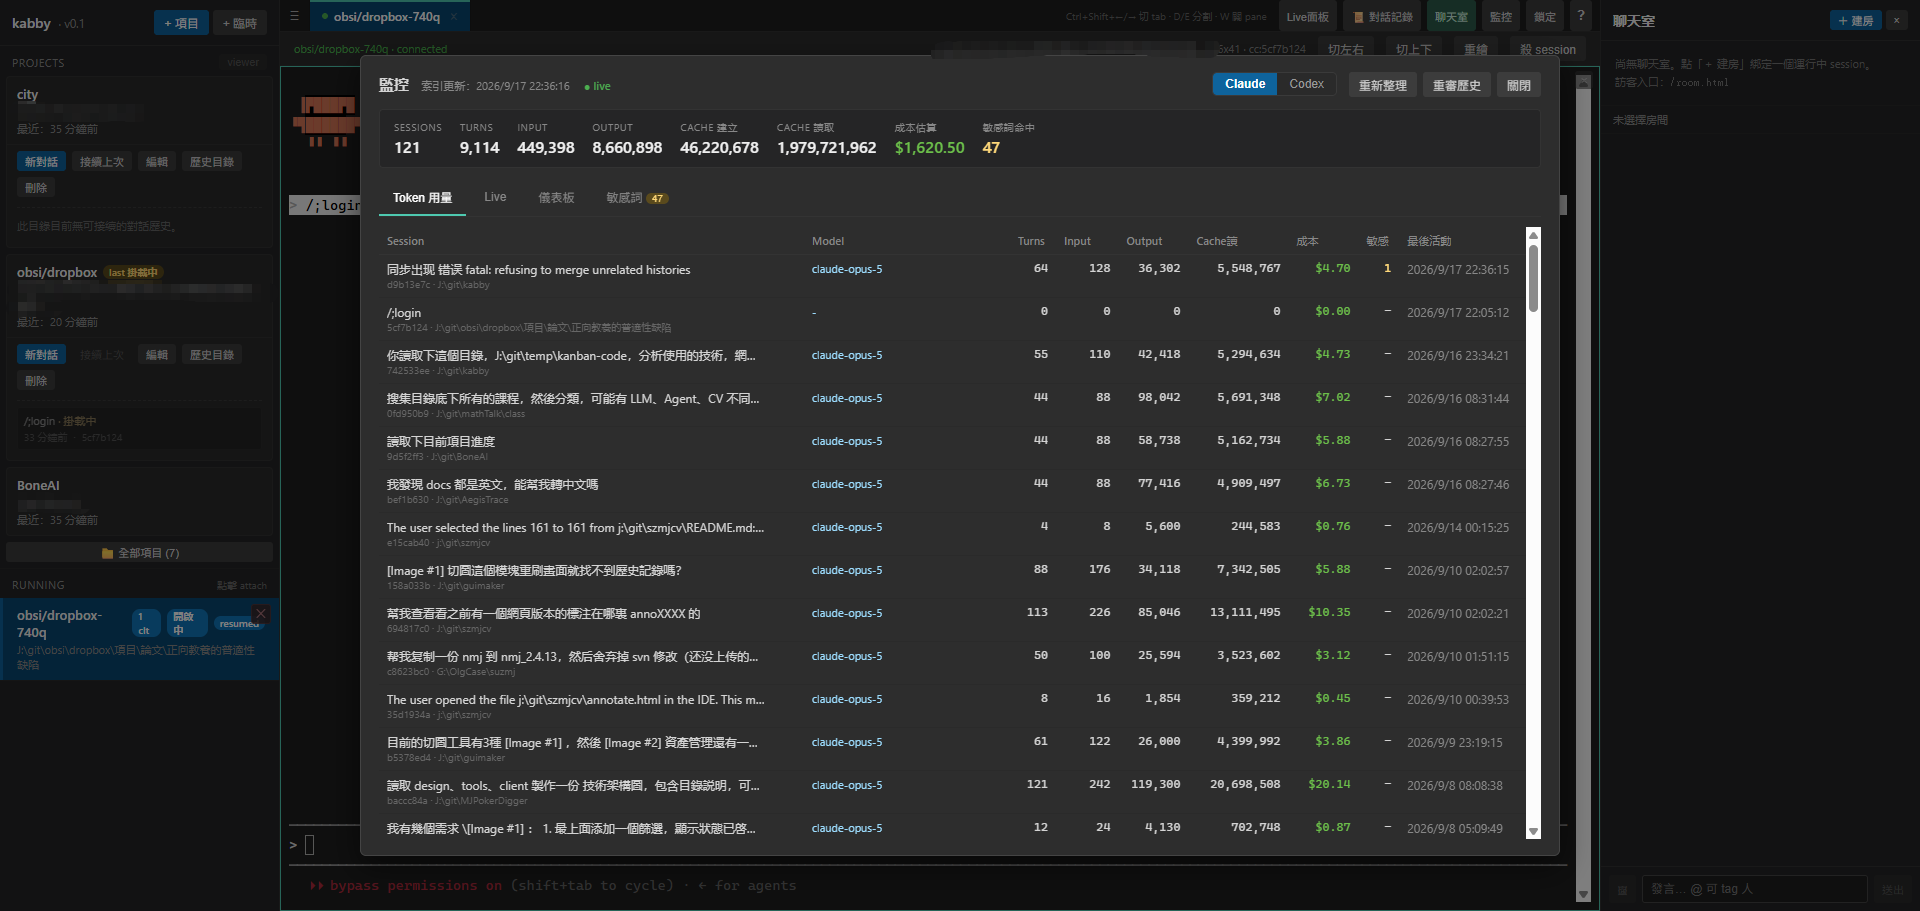
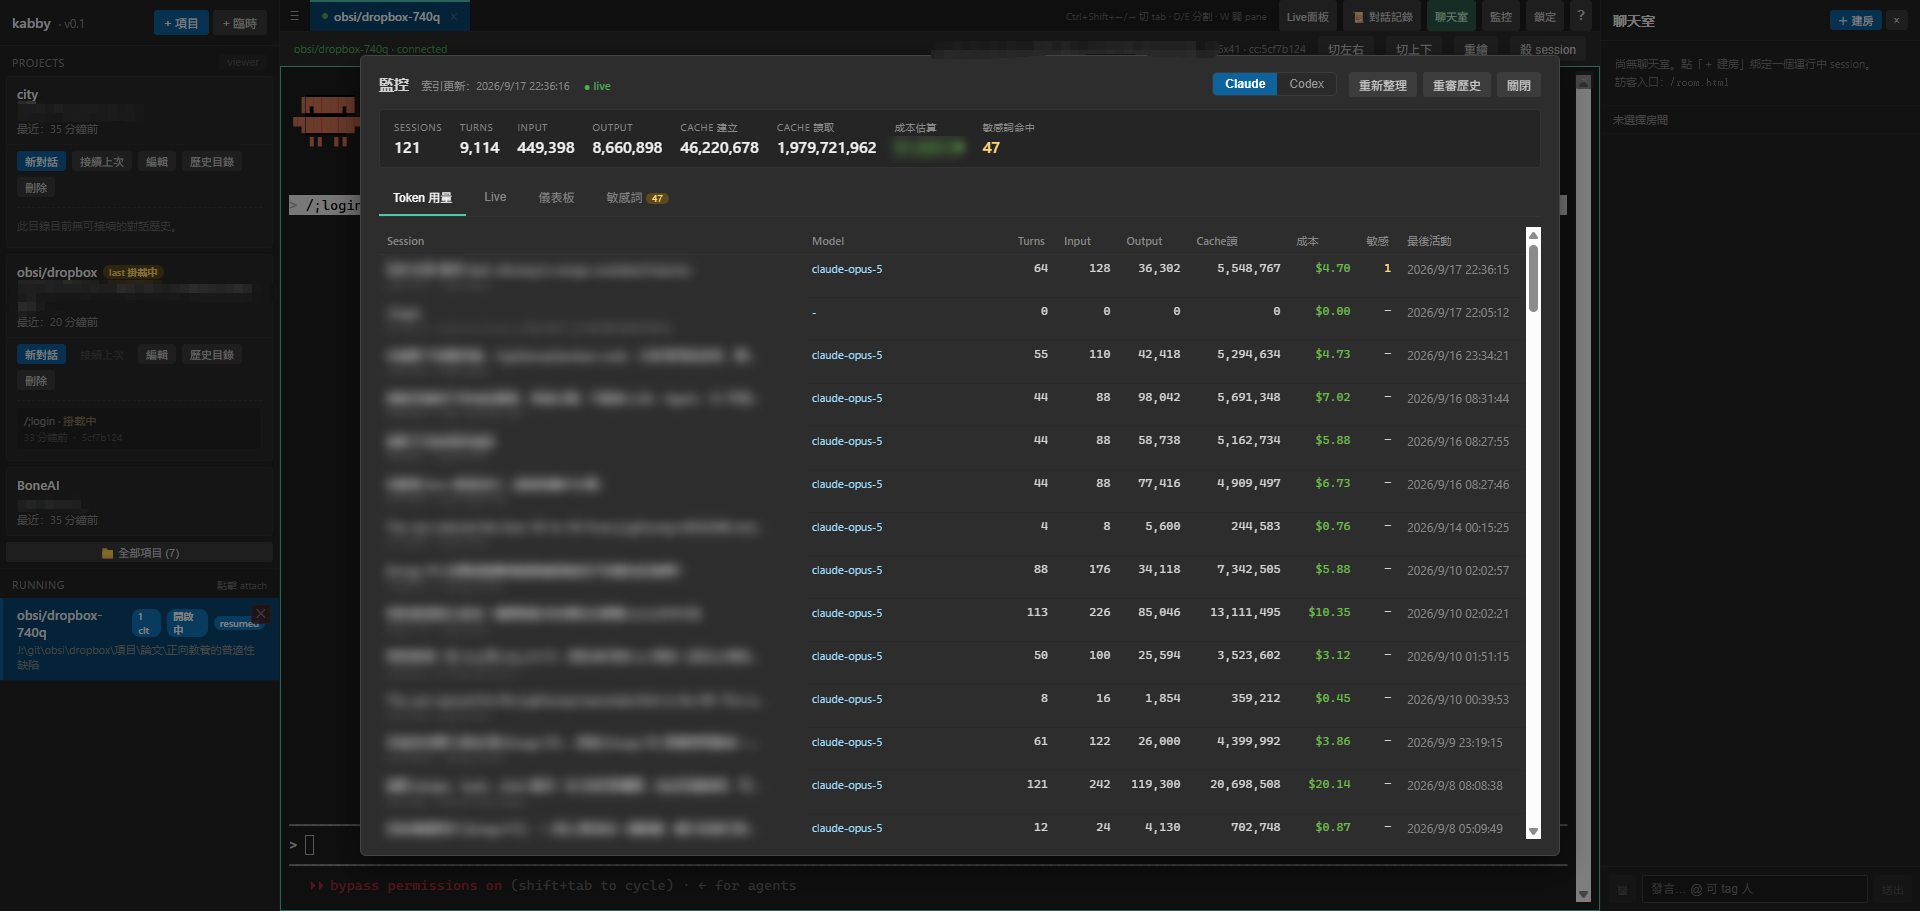
docs(readme): 監控截圖補打碼 + 英文/簡體版與語言切換
- monitor.png：Session 欄（標題與路徑）與成本估算數字做馬賽克
- 新增 README.en.md、README.zh-CN.md，三份互相連結
- 三份 README 在 What is Kabby 之上加語言切換列

Changed region(s): [[0.1875, 0.3381, 0.4062, 0.9221], [0.1875, 0.2766, 0.375, 0.3074], [0.4688, 0.1537, 0.5, 0.1844]]

diff --git a/README.en.md b/README.en.md
@@ -1,0 +1,182 @@
+<div align="center">
+
+# kabby
+
+**One Claude Code process, many windows attached — a PTY multiplexer for cc.**
+
+Your desktop app, a browser tab, your phone and an embedded iframe all see the same terminal. Close the window and cc keeps running.
+
+</div>
+
+---
+
+![kabby Web UI — tabs, project/running list on the left, live panel and monitor entry at top right](docs/images/screenshot.png)
+
+<div align="center">
+
+**English** · [繁體中文](./README.md) · [简体中文](./README.zh-CN.md)
+
+</div>
+
+## What is Kabby
+
+When you start Claude Code in a terminal, the cc process is tied to that window: close the window or drop the SSH connection and the session is gone. Want to pick it up on another device? Your only option is to start a fresh cc.
+
+kabby separates the **cc process** from the **client connection**. cc runs in a PTY inside the daemon, and any client — the desktop app, a browser tab, a wepages iframe, your phone's browser — attaches over WebSocket and sees the same screen and the same scrollback. It behaves like `tmux attach`, except the entry point is a URL instead of a terminal.
+
+Three features grow out of that: turn a session into a **chat room** so others can watch or work alongside you, reach the cc on your home machine **remotely** through a tunnel, and **analyze** your cc history for token usage and cost.
+
+kabby itself is Node.js with four dependencies (express / ws / node-pty / cors). No database — sessions live in memory, settings live in `~/.kabby/`.
+
+## Installation
+
+Requires **Node.js ≥ 18** and the [Claude Code](https://docs.anthropic.com/en/docs/claude-code) CLI (Codex works too).
+
+```bash
+git clone https://github.com/jokerjkeeper/kabby.git
+cd kabby
+npm install
+npm start
+# → kabby daemon listening on http://localhost:3700
+```
+
+Open `http://localhost:3700` for the full UI. On Windows `node-pty` uses the prebuilt ConPTY backend, so a plain `npm install` is enough — no build toolchain needed.
+
+Auto-restart while developing:
+
+```bash
+npm run dev
+```
+
+**Desktop app (optional)** — an Electron shell; just a window pointed at the daemon:
+
+```bash
+cd desktop
+npm install
+npm start           # dev
+npm run dist        # build a Windows portable exe
+```
+
+### Configuration
+
+Environment variables (put them in `.env`; see `.env.example`):
+
+| Variable | Default | Purpose |
+|---|---|---|
+| `PORT` | `3700` | Shared HTTP + WS port |
+| `HOST` | `127.0.0.1` | Bind address; set `0.0.0.0` to allow LAN access (always pair it with `AUTH_TOKEN`) |
+| `AUTH_TOKEN` | (unset) | Once set, WS connections must pass `?token=<value>` |
+| `KABBY_VIEWER_PATH` | (unset) | Absolute path to the cc history viewer executable; enables the "viewer" button in the UI |
+
+User data lives in `~/.kabby/`: `profiles.json` (project list), `sensitive-words.json` (blocklist), and the usage index.
+
+## Features
+
+### Multi-client attach (the core)
+
+- **One PTY, N clients**: a new client receives a scrollback replay first, then the live stream — no need to restart cc
+- **Projects (profiles)**: save a working directory as a card, then "New chat" or "Resume" in one click — the latter reattaches cc's own previous session
+- **Tabs and split panes**: `Ctrl+Shift+←/→` to switch tabs, `Ctrl+Shift+D/E` to split horizontally/vertically; each pane is its own session
+- **Providers**: launch either Claude Code or Codex, chosen when the session is created
+- **Input blocklist**: outgoing input is matched against a word list server-side; a hit is dropped before it reaches the PTY
+
+### Chat
+
+The chat button at the top right opens a side panel: create a room, bind it to a running session, set an entry key.
+
+![Create room dialog: bind session, room name, entry key, and the "allow guest input" toggle](docs/images/room-create.png)
+
+Guests open `http://<host>:3700/room.html` (or a copied link carrying `?key=`), enter the key and a nickname, and they are in:
+
+- **Watch the terminal**: the bound session's live screen including scrollback replay, following the host's terminal size
+- **Text chat**: last 200 messages; supports **images** (Ctrl+V a screenshot or pick a file — compressed client-side, sent over WS, kept in memory, 20 most recent per room) and **@mentions** (autocomplete over room members, highlights the person tagged)
+- **Permissions**: each room has an input toggle that is **read-only by default**; the host can flip it live, and the read-only check is enforced server-side, not hidden in the frontend
+- **Isolation**: a guest key only grants the WS of that room's bound session plus chat — no other API is reachable
+- Rooms live in memory; restarting the daemon or ending the bound session closes them
+
+> ⚠ Enabling guest input lets visitors run arbitrary commands on this machine with your permissions. Only hand the key to people you trust.
+
+### Remote
+
+Bound to `127.0.0.1`, the daemon is local-only. Two ways to reach your cc from outside:
+
+- **LAN**: `HOST=0.0.0.0` plus `AUTH_TOKEN`, then connect to `http://<lan-ip>:3700` from a phone or laptop on the same network
+- **Cloudflare Tunnel (recommended)**: keep the daemon on `127.0.0.1` and let the tunnel expose it as `https://kabby.your-domain` over 443, with no inbound firewall rule. Setup: [`docs/cloudflare-tunnel.html`](./docs/cloudflare-tunnel.html)
+
+Pair it with [`docs/deploy-systemd.md`](./docs/deploy-systemd.md) to run the daemon as a systemd service — starts on boot, restarts on crash, survives SSH disconnects. That gives you an always-on cc host you can check from a phone browser whenever you want.
+
+`embed.html` is a stripped-down terminal page meant to be iframed into your own task/ticket system (see [`docs/wepages-phase3-integration.md`](./docs/wepages-phase3-integration.md)).
+
+### Session Analyze
+
+The monitor button opens a read-only analytics panel; a background watcher keeps indexing Claude Code / Codex history jsonl files.
+
+![Monitor panel: totals row plus the token usage tab listing model, turns, tokens, cost and last activity per session](docs/images/monitor.png)
+
+- Totals: sessions, turns, input/output tokens, cache writes and reads, **estimated cost**, blocklist hits
+- **Token usage**: per session — model, turns, tokens, cost, last activity — expandable to per-turn detail, so you can spot the turn where context blew up
+- **Live**: per-turn usage of the session running right now
+- **Dashboard**: aggregate view
+- **Blocklist**: hit list; the word list lives in `~/.kabby/sensitive-words.json`
+- Switch **Claude / Codex** at the top right; refresh re-reads the index, while rescan drops it and scans from scratch (recomputing tokens/cost and applying the current word list to old conversations)
+
+Indexing and pricing are computed locally — your conversations are never sent anywhere.
+
+## API
+
+```bash
+# create a session
+curl -X POST http://localhost:3700/api/sessions \
+  -H "Content-Type: application/json" \
+  -d '{"name":"unity","cwd":"D:/Projects/my-app"}'
+
+# list sessions
+curl http://localhost:3700/api/sessions
+
+# attach with any WS client, e.g. wscat
+wscat -c ws://localhost:3700/ws/unity
+```
+
+Full HTTP + WS reference: [`docs/api.md`](./docs/api.md) · Step-by-step usage and troubleshooting: [`docs/usage.md`](./docs/usage.md)
+
+## Testing
+
+```bash
+node test/smoke.js
+```
+
+Runs `cmd.exe` in place of cc (so it does not depend on claude being installed) and verifies: creating/deleting sessions over the HTTP API, fan-out between two WS clients on one session, scrollback replay for a third client joining later, and `clientCount` tracking attachments correctly.
+
+## Architecture
+
+```
+client (desktop app / browser / iframe / room.html)
+        │  WebSocket  ws://host:3700/ws/<session>
+        ▼
+   daemon.js ── HTTP API + WS upgrade + fan-out
+        │
+   Session ── node-pty (one cc process) + ring buffer (scrollback)
+```
+
+```
+src/
+  daemon.js        — entry: HTTP server + WS upgrade + API routes
+  session.js       — Session class: wraps PTY + scrollback + clients
+  registry.js      — singleton Map<id, Session>, name dedupe, ccSessionId lookup
+  ring-buffer.js   — 100KB chunk-based ring buffer
+  room-registry.js — chat rooms: rooms, entry keys, members, messages
+  profile-store.js — ~/.kabby/profiles.json CRUD
+  usage-watcher.js — background scan of history jsonl into a usage index
+  cc-history.js    — cc conversation jsonl parser
+  sensitive.js     — blocklist matching
+public/            — web UI (SPA + room.html + embed.html)
+desktop/           — Electron desktop client
+docs/              — API, usage, deployment (tunnel / systemd)
+PLAN.md            — design decisions and phased plan
+```
+
+Design decisions and phase details: [`PLAN.md`](./PLAN.md).
+
+## License
+
+MIT

diff --git a/README.zh-CN.md b/README.zh-CN.md
@@ -1,0 +1,182 @@
+<div align="center">
+
+# kabby
+
+**一个 cc 进程，多个窗口同时 attach — 给 Claude Code 用的 PTY 多路复用器。**
+
+桌面、浏览器、手机、iframe 看到的是同一个终端，关掉窗口 cc 照样在跑。
+
+</div>
+
+---
+
+![kabby Web UI — 多标签页、左侧项目/Running 列表、右上 Live 面板与监控入口](docs/images/screenshot.png)
+
+<div align="center">
+
+[English](./README.en.md) · [繁體中文](./README.md) · **简体中文**
+
+</div>
+
+## What is Kabby
+
+一般在终端里开 Claude Code，cc 的生命周期是绑在那个终端窗口上的：窗口关了、SSH 断了，会话就没了；想换一台设备接手，只能重开一个新的 cc。
+
+kabby 把 **cc 进程**和 **client 连接**拆开。cc 跑在 daemon 里的 PTY 中，任何 client（桌面 App、浏览器标签页、wepages 的 iframe、手机浏览器）用 WebSocket attach 上来，看到的是同一个画面、同一份 scrollback，行为等同 `tmux attach`——只是 attach 的入口从终端变成了网址。
+
+在这之上长出三个延伸功能：把会话开成**聊天室**让别人实时围观或协作、通过 tunnel **远程**用手机连回家里那台机器的 cc，以及扫描 cc 历史做 token 用量与成本的**分析监控**。
+
+kabby 本身只有 Node.js 加四个依赖（express / ws / node-pty / cors），没有数据库，会话放在内存里，配置放在 `~/.kabby/`。
+
+## Installation
+
+需要 **Node.js ≥ 18**，以及已安装的 [Claude Code](https://docs.anthropic.com/en/docs/claude-code) CLI（Codex 也可以）。
+
+```bash
+git clone https://github.com/jokerjkeeper/kabby.git
+cd kabby
+npm install
+npm start
+# → kabby daemon listening on http://localhost:3700
+```
+
+浏览器打开 `http://localhost:3700` 就是完整 UI。`node-pty` 在 Windows 上走预编译的 ConPTY 后端，正常 `npm install` 即可，不需要 build 工具链。
+
+开发时自动重启：
+
+```bash
+npm run dev
+```
+
+**桌面 App（可选）** —— Electron 壳，就是一个指向 daemon 的窗口：
+
+```bash
+cd desktop
+npm install
+npm start           # 开发
+npm run dist        # 打包成 Windows portable exe
+```
+
+### Configuration
+
+环境变量（可写在 `.env`，模板见 `.env.example`）：
+
+| 变量 | 默认值 | 用途 |
+|---|---|---|
+| `PORT` | `3700` | HTTP + WS 共用端口 |
+| `HOST` | `127.0.0.1` | 监听地址；设为 `0.0.0.0` 开放局域网直连（务必搭配 `AUTH_TOKEN`） |
+| `AUTH_TOKEN` | （未设） | 设置之后 WS 连接必须带 `?token=<value>` |
+| `KABBY_VIEWER_PATH` | （未设） | cc history viewer 的 portable exe 绝对路径；设置后 UI 上的「viewer」按钮才会启用 |
+
+用户数据放在 `~/.kabby/`：`profiles.json`（项目列表）、`sensitive-words.json`（敏感词库）、用量索引。
+
+## Features
+
+### 多 client attach（核心）
+
+- **一个 PTY、N 个 client**：新 client 接上先收 scrollback replay，再接实时输出，不用重开 cc
+- **项目（profile）**：把常用工程存成一张卡片，一键「新对话」或「接续上次」——后者直接把 cc 的历史会话接回来
+- **多标签页 + 分割 pane**：`Ctrl+Shift+←/→` 切标签页、`Ctrl+Shift+D/E` 左右/上下分割，每个 pane 是一个独立会话
+- **Provider**：Claude Code 与 Codex 都能开，建会话时选
+- **敏感词拦截**：发送的输入在服务端比对词库，命中直接拦下，不进 PTY
+
+### Chat
+
+主页右上「聊天室」打开右侧面板：创建房间、绑定一个运行中的会话、设一组入房 key。
+
+![创建聊天室：绑定会话、房间名称、入房 key 与「允许访客在终端输入」开关](docs/images/room-create.png)
+
+别人打开 `http://<host>:3700/room.html`（或用「复制链接」带 `?key=`），输入 key + 昵称即可进房：
+
+- **看终端**：实时看到绑定会话的画面（含 scrollback replay），跟随房主的终端尺寸
+- **文字聊天**：保留最近 200 条；支持**贴图**（Ctrl+V 粘贴截图或选文件，前端压缩走 WS 存内存，每房保留最近 20 张）与 **@mention**（自动补全房内成员，被 @ 会高亮提示）
+- **权限**：房间有「可输入」开关，**默认只读**，房主可随时切换、实时生效；只读是服务端强制，不是前端隐藏
+- **隔离**：访客的 key 只换得该房绑定会话的 WS + 聊天，访问不到其他 API
+- 房间存在内存里，daemon 重启或绑定会话结束即自动关房
+
+> ⚠ 开启「可输入」等于让访客在这台机器上用你的权限执行任意命令，只给信任的人。
+
+### Remote
+
+daemon 绑 `127.0.0.1` 时只有本机能访问。要从外面连回这个 cc，有两种做法：
+
+- **局域网直连**：`HOST=0.0.0.0` + `AUTH_TOKEN`，同网段的手机/笔记本直接连 `http://<内网 IP>:3700`
+- **Cloudflare Tunnel（推荐）**：kabby 保持绑 `127.0.0.1`，由 tunnel 对外暴露成 `https://kabby.你的域名`（对外 443、不开防火墙入站）。配置步骤见 [`docs/cloudflare-tunnel.html`](./docs/cloudflare-tunnel.html)
+
+搭配 [`docs/deploy-systemd.md`](./docs/deploy-systemd.md) 把 daemon 设成 systemd service，实现开机自启、崩溃重启、不随 SSH 断线而停——等于一台永远在线的 cc 主机，手机浏览器随时连上去看它跑到哪了。
+
+另外 `embed.html` 是给第三方系统嵌入用的精简终端页，可以用 iframe 挂进自己的工单/任务页（见 [`docs/wepages-phase3-integration.md`](./docs/wepages-phase3-integration.md)）。
+
+### Session Analyze
+
+主页右上「监控」打开只读分析面板：后台 watcher 持续扫描 Claude Code / Codex 的历史 jsonl 建索引。
+
+![监控面板：总计行 + Token 用量标签页，逐会话列出 model、turns、token、成本与最后活动时间](docs/images/monitor.png)
+
+- 顶部总计：sessions、turns、input/output token、cache 写入与读取、**成本估算**、敏感词命中数
+- **Token 用量**：逐会话列出 model / turns / token / 成本 / 最后活动，可展开看逐轮明细，能定位到哪一轮 context 爆掉
+- **Live**：当前正在跑的会话的实时逐轮用量
+- **仪表板**：汇总视图
+- **敏感词**：命中列表，词库在 `~/.kabby/sensitive-words.json`
+- 右上切换 **Claude / Codex**；「重新整理」重读索引，「重审历史」删索引全扫（重算 token/成本并把当前词库应用到既有对话）
+
+索引与定价都是本地计算，不会把你的对话发送到任何地方。
+
+## API
+
+```bash
+# 创建会话
+curl -X POST http://localhost:3700/api/sessions \
+  -H "Content-Type: application/json" \
+  -d '{"name":"unity","cwd":"D:/Projects/my-app"}'
+
+# 列出所有会话
+curl http://localhost:3700/api/sessions
+
+# attach（任意 WS client，例如 wscat）
+wscat -c ws://localhost:3700/ws/unity
+```
+
+完整 HTTP + WS 参考：[`docs/api.md`](./docs/api.md) · 从零开始的操作流程与排错：[`docs/usage.md`](./docs/usage.md)
+
+## Testing
+
+```bash
+node test/smoke.js
+```
+
+用 `cmd.exe` 代替 cc 运行（不依赖 claude 是否安装），验证：HTTP API 创建/删除会话、两个 WS client 连同一个会话的 fan-out、第三个 client 后加入能收到 scrollback replay、`clientCount` 正确反映 attach 数。
+
+## Architecture
+
+```
+client（桌面 App / 浏览器 / iframe / room.html）
+        │  WebSocket  ws://host:3700/ws/<session>
+        ▼
+   daemon.js ── HTTP API + WS upgrade + fan-out
+        │
+   Session ── node-pty（一个 cc 进程）+ ring buffer（scrollback）
+```
+
+```
+src/
+  daemon.js        — 入口：HTTP server + WS upgrade + API routes
+  session.js       — Session 类：封装 PTY + scrollback + clients
+  registry.js      — 单例 Map<id, Session>，name 去重、ccSessionId 占用查询
+  ring-buffer.js   — 100KB chunk-based ring buffer
+  room-registry.js — 聊天室：房间、入房 key、成员与消息
+  profile-store.js — ~/.kabby/profiles.json CRUD
+  usage-watcher.js — 后台扫描历史 jsonl 建用量索引
+  cc-history.js    — 解析 cc 对话历史 jsonl
+  sensitive.js     — 敏感词比对
+public/            — Web UI（SPA + room.html + embed.html）
+desktop/           — Electron 桌面 client
+docs/              — API、使用手册、部署（tunnel / systemd）
+PLAN.md            — 设计决策与分阶段规划
+```
+
+设计决策与各阶段细节见 [`PLAN.md`](./PLAN.md)。
+
+## License
+
+MIT

diff --git a/README.md b/README.md
@@ -12,6 +12,12 @@
 
 ![kabby Web UI — 多 tab、左側項目/Running 清單、右上 Live 面板與監控入口](docs/images/screenshot.png)
 
+<div align="center">
+
+[English](./README.en.md) · **繁體中文** · [简体中文](./README.zh-CN.md)
+
+</div>
+
 ## What is Kabby
 
 一般在終端開 Claude Code，cc 的生命週期是綁在那個終端視窗上的：視窗關了、SSH 斷了，session 就沒了；想換一台裝置接手，只能重開一個新的 cc。
